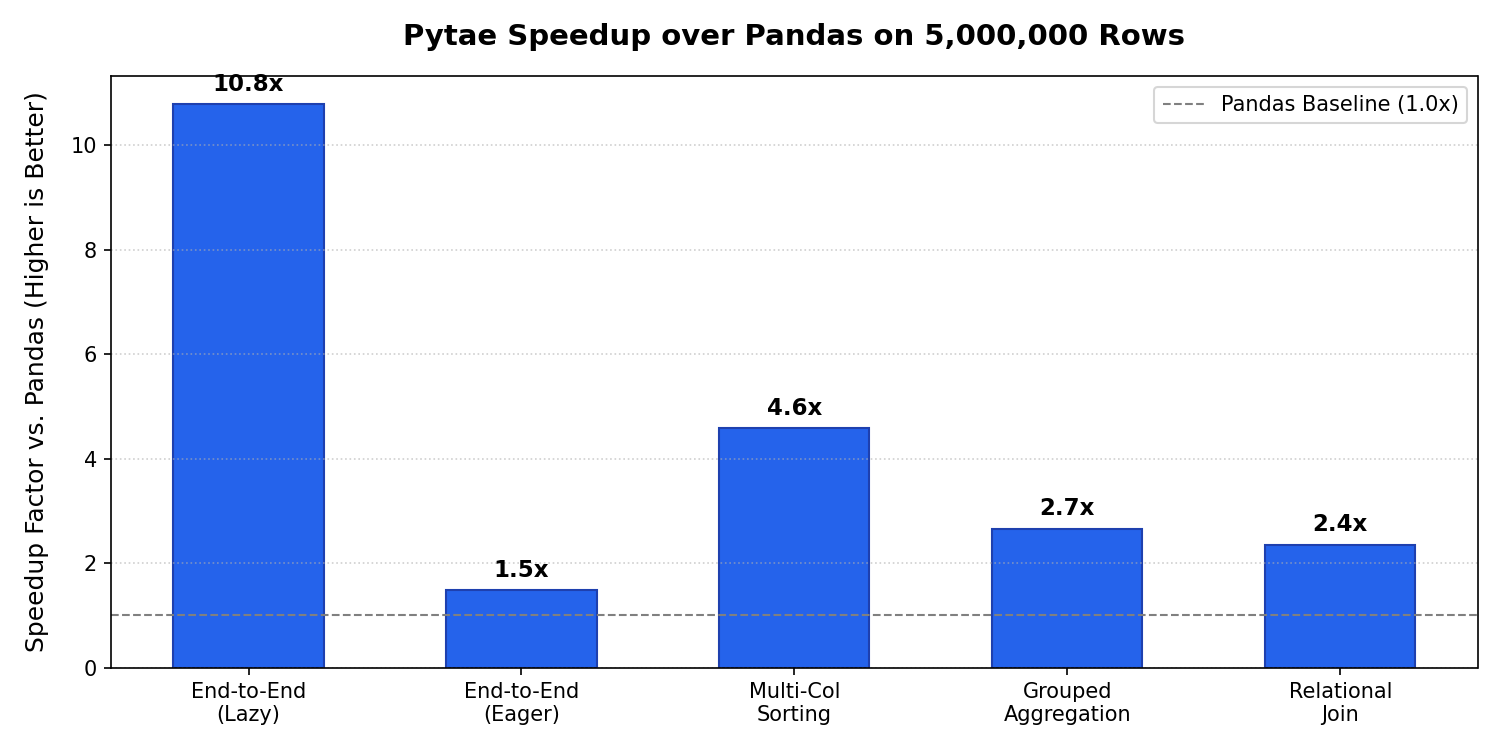
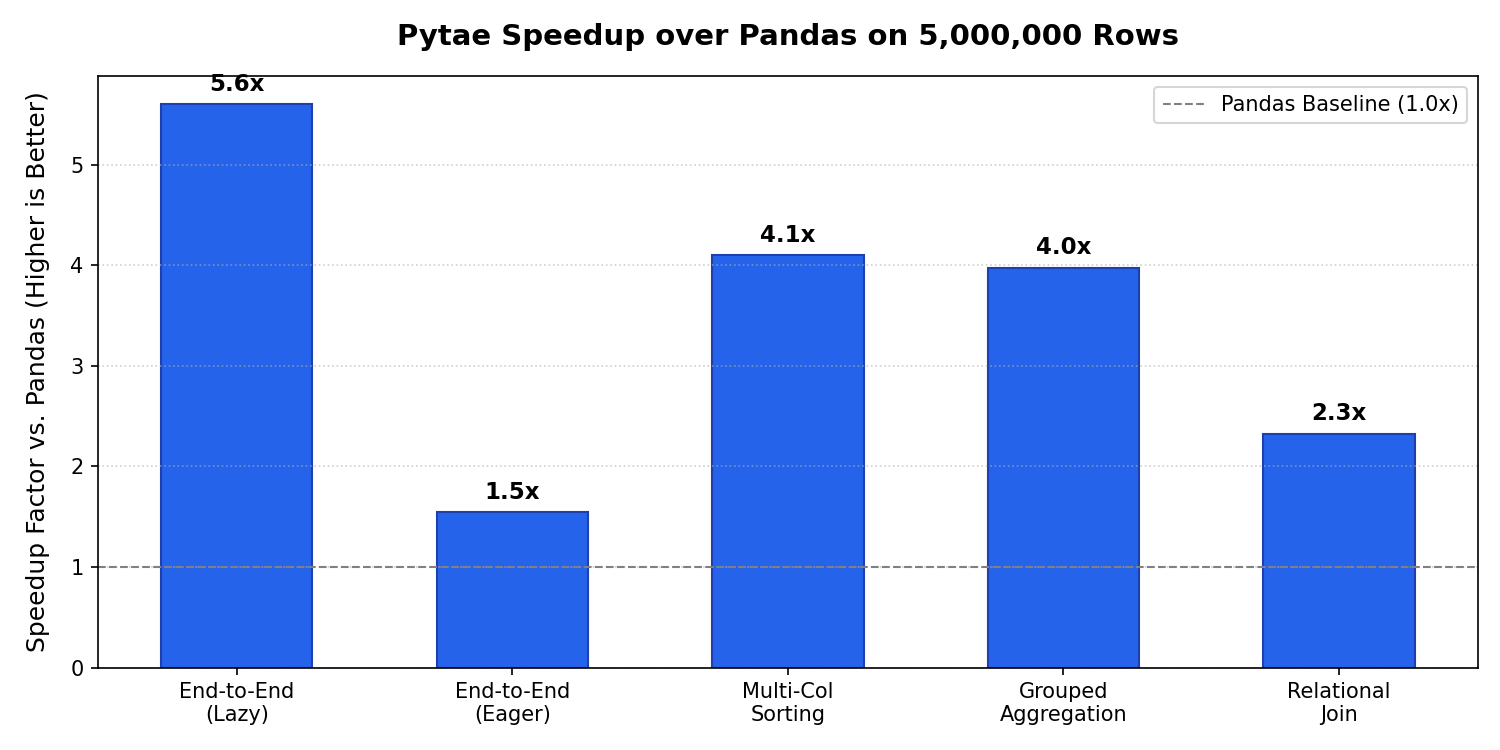
fix(filter): enforce quotes for string column filtering in CLI and library
- Remove auto-coercion of numbers/non-strings to strings in polars_engine._cond_to_polars_expr
- Raise explicit TypeError when non-string value (e.g. unquoted int/float) is passed to a String column
- Ensure CLI parse_filter op_match consistently rejects unquoted string literals
- Add test coverage for unquoted vs quoted string filtering across CLI and library

diff --git a/src/pytae/polars_engine.py b/src/pytae/polars_engine.py
@@ -68,8 +68,12 @@ def _cond_to_polars_expr(col: str, cond: Any, schema: pl.Schema | None = None) -
                     return float(val)
                 except ValueError:
                     pass
-        elif is_string and not isinstance(val, str):
-            return str(val)
+        elif is_string and not isinstance(val, (str, bytes)):
+            if val is not None:
+                raise TypeError(
+                    f"filter(): column '{col}' has String type, but received {type(val).__name__} {val!r}. "
+                    f"String values must be enclosed in quotes (e.g. {col} = '{val}')."
+                )
         elif is_date and isinstance(val, str):
             from datetime import datetime
 
@@ -109,6 +113,43 @@ def _cond_to_polars_expr(col: str, cond: Any, schema: pl.Schema | None = None) -
             if op == "not in":
                 vals = [_coerce_val(v) for v in val] if isinstance(val, (list, tuple)) else val
                 return ~col_expr.is_in(vals)
+            if op == "startswith":
+                if isinstance(val, (list, tuple)):
+                    for v in val:
+                        _coerce_val(v)
+                    if not val:
+                        return pl.lit(False)
+                    return pl.any_horizontal([col_expr.cast(pl.String).str.starts_with(str(v)) for v in val])
+                _coerce_val(val)
+                return col_expr.cast(pl.String).str.starts_with(str(val))
+            if op == "endswith":
+                if isinstance(val, (list, tuple)):
+                    for v in val:
+                        _coerce_val(v)
+                    if not val:
+                        return pl.lit(False)
+                    return pl.any_horizontal([col_expr.cast(pl.String).str.ends_with(str(v)) for v in val])
+                _coerce_val(val)
+                return col_expr.cast(pl.String).str.ends_with(str(val))
+            if op == "contains":
+                if isinstance(val, (list, tuple)):
+                    for v in val:
+                        _coerce_val(v)
+                    if not val:
+                        return pl.lit(False)
+                    return pl.any_horizontal([col_expr.cast(pl.String).str.contains(str(v), literal=True) for v in val])
+                _coerce_val(val)
+                return col_expr.cast(pl.String).str.contains(str(val), literal=True)
+            if op == "regex":
+                if isinstance(val, (list, tuple)):
+                    for v in val:
+                        _coerce_val(v)
+                    if not val:
+                        return pl.lit(False)
+                    return pl.any_horizontal([col_expr.cast(pl.String).str.contains(str(v)) for v in val])
+                _coerce_val(val)
+                return col_expr.cast(pl.String).str.contains(str(val))
+
             cval = _coerce_val(val)
             if op == "==":
                 if cval is None or str(cval).lower() in ("none", "null"):
@@ -126,30 +167,6 @@ def _cond_to_polars_expr(col: str, cond: Any, schema: pl.Schema | None = None) -
                 return col_expr < cval
             if op == "<=":
                 return col_expr <= cval
-            if op == "startswith":
-                if isinstance(val, (list, tuple)):
-                    if not val:
-                        return pl.lit(False)
-                    return pl.any_horizontal([col_expr.cast(pl.String).str.starts_with(str(v)) for v in val])
-                return col_expr.cast(pl.String).str.starts_with(str(val))
-            if op == "endswith":
-                if isinstance(val, (list, tuple)):
-                    if not val:
-                        return pl.lit(False)
-                    return pl.any_horizontal([col_expr.cast(pl.String).str.ends_with(str(v)) for v in val])
-                return col_expr.cast(pl.String).str.ends_with(str(val))
-            if op == "contains":
-                if isinstance(val, (list, tuple)):
-                    if not val:
-                        return pl.lit(False)
-                    return pl.any_horizontal([col_expr.cast(pl.String).str.contains(str(v), literal=True) for v in val])
-                return col_expr.cast(pl.String).str.contains(str(val), literal=True)
-            if op == "regex":
-                if isinstance(val, (list, tuple)):
-                    if not val:
-                        return pl.lit(False)
-                    return pl.any_horizontal([col_expr.cast(pl.String).str.contains(str(v)) for v in val])
-                return col_expr.cast(pl.String).str.contains(str(val))
 
     if isinstance(cond, str):
         cond_clean = cond.strip().lower()

diff --git a/tests/test_cli_filter.py b/tests/test_cli_filter.py
@@ -208,3 +208,48 @@ def test_filter_cli_notna_spaced_column(tmp_path, capsys):
     assert exit_code == 0
     assert capsys.readouterr().out.strip() == "(3, 2)"
 
+
+def test_filter_string_column_unquoted_number_fails(tmp_path, capsys):
+    path = _write_csv(
+        tmp_path,
+        pd.DataFrame({"id": ["1", "9", "a"], "val": [10, 20, 30]}),
+    )
+
+    # Bare equality with unquoted int
+    with pytest.raises(SystemExit):
+        cli.main([path, "-filter", "id = 9"])
+    assert "column 'id' has String type" in capsys.readouterr().err
+
+    # Double equality with unquoted int
+    with pytest.raises(SystemExit):
+        cli.main([path, "-filter", "id == 9"])
+    assert "column 'id' has String type" in capsys.readouterr().err
+
+    # Inequality with unquoted int (prevents lexicographical bugs)
+    with pytest.raises(SystemExit):
+        cli.main([path, "-filter", "id > 9"])
+    assert "column 'id' has String type" in capsys.readouterr().err
+
+
+def test_filter_string_column_quoted_number_succeeds(tmp_path, capsys):
+    path = _write_csv(
+        tmp_path,
+        pd.DataFrame({"id": ["1", "9", "a"], "val": [10, 20, 30]}),
+    )
+
+    exit_code = cli.main([path, "-filter", "id = '9'", "-shape"])
+    assert exit_code == 0
+    assert capsys.readouterr().out.strip() == "(1, 2)"
+
+    exit_code = cli.main([path, "-filter", "id == '9'", "-shape"])
+    assert exit_code == 0
+    assert capsys.readouterr().out.strip() == "(1, 2)"
+
+
+def test_filter_unquoted_comparison_word_errors(tmp_path):
+    path = _write_csv(tmp_path, pd.DataFrame({"species": ["Adelie", "Gentoo"]}))
+
+    with pytest.raises(SystemExit, match="must be quoted"):
+        cli.main([path, "-filter", "species == Adelie", "-shape"])
+
+

diff --git a/tests/test_polars_engine.py b/tests/test_polars_engine.py
@@ -642,3 +642,38 @@ def test_filter_polars_dt_and_str_methods():
     res_dt = df.filter("date(order_date).dt.month() > 6")
     assert len(res_dt) == 2
     assert list(res_dt["sku"]) == ["TEST-B-02", "PROD-C-03"]
+
+
+def test_filter_string_column_type_enforcement():
+    import pytae as pt
+
+    df = pt.DataFrame({"id": ["1", "9", "a"], "val": [10, 20, 30]})
+
+    # Kwarg with unquoted int raises TypeError
+    with pytest.raises(TypeError, match=r"column 'id' has String type, but received int 9"):
+        df.filter(id=9)
+
+    # String expression with unquoted int raises TypeError
+    with pytest.raises(TypeError, match=r"column 'id' has String type, but received int 9"):
+        df.filter("id = 9")
+
+    with pytest.raises(TypeError, match=r"column 'id' has String type, but received int 9"):
+        df.filter("id == 9")
+
+    with pytest.raises(TypeError, match=r"column 'id' has String type, but received int 9"):
+        df.filter("id > 9")
+
+    # List of unquoted ints raises TypeError
+    with pytest.raises(TypeError, match=r"column 'id' has String type, but received int"):
+        df.filter(id=[1, 9])
+
+    # Quoted string values succeed
+    res_kw = df.filter(id="9")
+    assert res_kw["id"].to_list() == ["9"]
+
+    res_eq = df.filter("id == '9'")
+    assert res_eq["id"].to_list() == ["9"]
+
+    res_list = df.filter(id=["1", "9"])
+    assert res_list["id"].to_list() == ["1", "9"]
+

diff --git a/src/pytae/cli_parsing.py b/src/pytae/cli_parsing.py
@@ -591,8 +591,7 @@ def _split_qry_entries(raw: str) -> list[tuple[str, str]]:
 def parse_filter(raw: str) -> list[tuple[str, Any]]:
     """Parse -filter conditions like "col = ('>', 5), other = ['a','b']"; wrapping {} and
     quotes around column names are both optional (matching -select), e.g.
-    "sex='Male'" == "'sex'='Male'". Prefix operators (e.g. "col = > 5" or "col > 5") and bare string
-    values (e.g. "species = Adelie") are also accepted."""
+    "sex='Male'" == "'sex'='Male'". Prefix operators (e.g. "col = > 5" or "col > 5") are also accepted."""
     stripped = raw.strip()
     if stripped.startswith("{") and stripped.endswith("}"):
         stripped = stripped[1:-1]
@@ -635,8 +634,11 @@ def parse_filter(raw: str) -> list[tuple[str, Any]]:
             sub_raw = op_match.group(2).strip()
             try:
                 sub_val = ast.literal_eval(sub_raw)
-            except (ValueError, SyntaxError):
-                sub_val = _unquote_name(sub_raw)
+            except (ValueError, SyntaxError) as exc:
+                raise SystemExit(
+                    f"invalid --filter conditions: value for '{key}' ('{sub_raw}') must be quoted "
+                    "(e.g. 'Male') or a valid literal (number/tuple/list)"
+                ) from exc
             conditions.append((key, (op, sub_val)))
             continue
 
